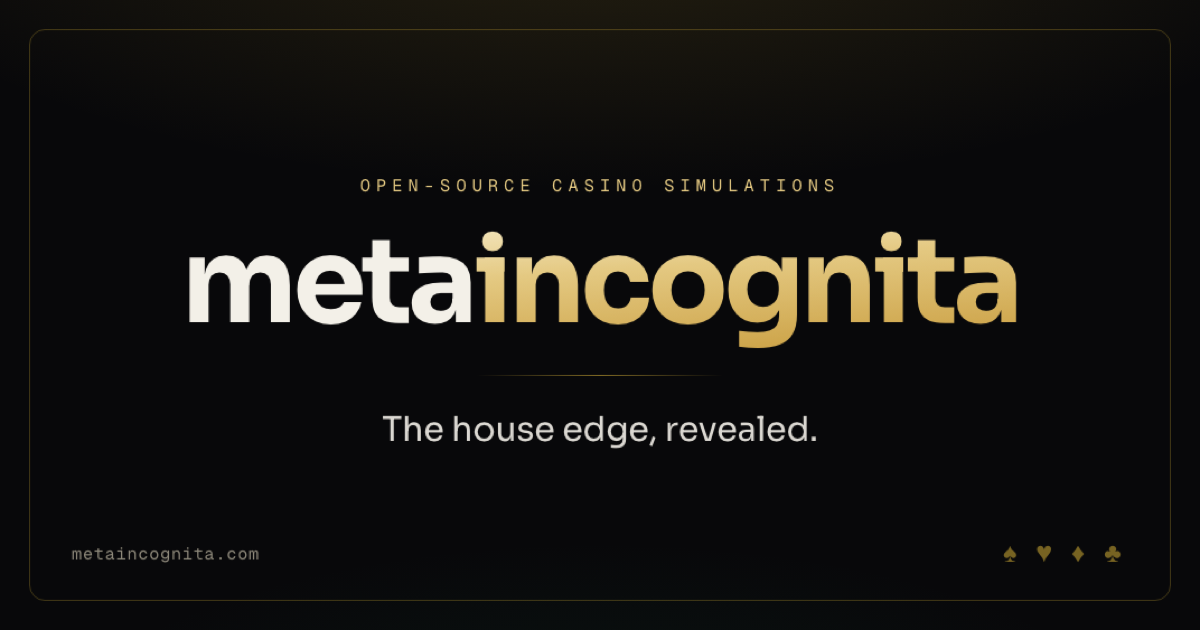
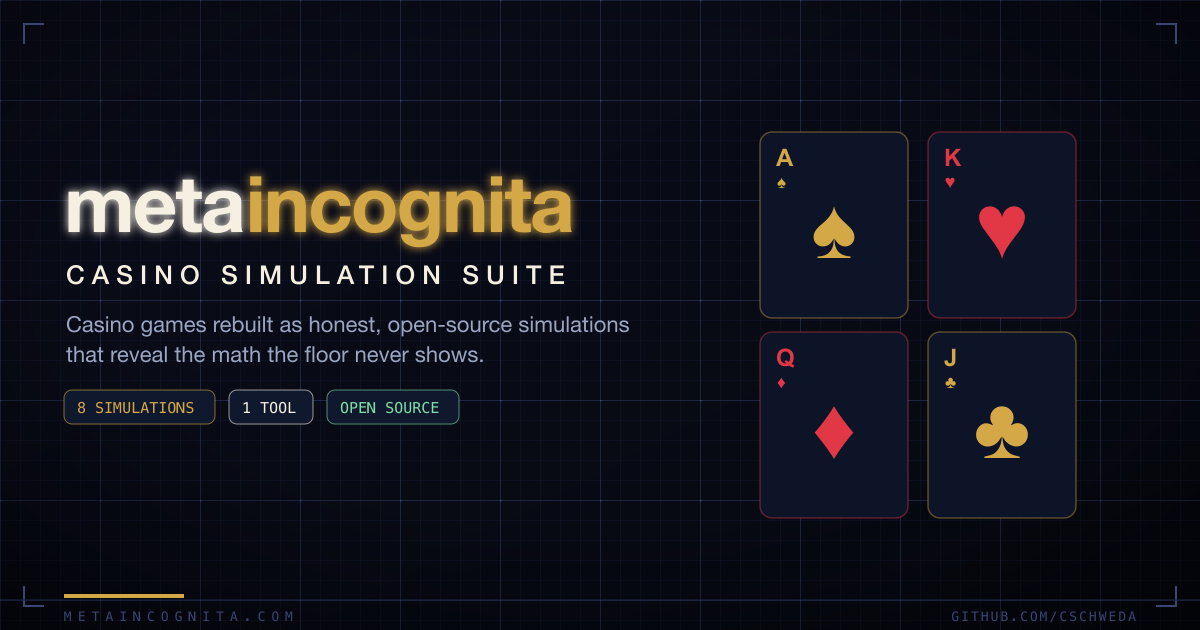
feat: branded og-image, SEO/JSON-LD, a11y fixes, GitHub label
- Status bar GitHub link now shows just 'GitHub' (icon); href points to the
  filtered metaincognita repos view.
- Add og-image.svg + og-image.png in the simulation-suite branded style
  (navy blueprint grid, gold accent, card-suits motif), rasterized with rsvg-convert.
- SEO: og:image alt/type, og:locale, twitter:image:alt, plus JSON-LD
  (WebSite + ItemList of every simulation/tool as a free WebApplication).
- README: add badges and embed the og-image.
- a11y: fix label-in-name on cards (drop aria-label override, add sr-only
  new-tab hint, aria-hidden decorative icons/index). axe AA: 0 violations,
  Lighthouse a11y/SEO/best-practices 100.
- perf: inline critical CSS to drop the render-blocking stylesheet.

diff --git a/app/pages/index.vue b/app/pages/index.vue
@@ -3,6 +3,45 @@ import { simulations, tools } from '~/data/catalog'
 
 // Stagger the card reveals a touch past the hero's entrance.
 const cardDelay = (i: number, base = 0) => `${(base + i * 0.06).toFixed(2)}s`
+
+// Structured data: the site plus every simulation/tool as a free web application.
+const SITE = 'https://metaincognita.com'
+const jsonLd = {
+  '@context': 'https://schema.org',
+  '@graph': [
+    {
+      '@type': 'WebSite',
+      '@id': `${SITE}/#website`,
+      name: 'metaincognita',
+      url: SITE,
+      description: 'Open-source casino simulations and trainers that reveal the math behind every game — no real money, no accounts, no AI.',
+      inLanguage: 'en'
+    },
+    {
+      '@type': 'ItemList',
+      name: 'metaincognita simulations & tools',
+      numberOfItems: simulations.length + tools.length,
+      itemListElement: [...simulations, ...tools].map((item, i) => ({
+        '@type': 'ListItem',
+        position: i + 1,
+        item: {
+          '@type': 'WebApplication',
+          name: item.title,
+          url: `https://${item.domain}`,
+          description: item.description,
+          applicationCategory: 'GameApplication',
+          operatingSystem: 'Web',
+          isAccessibleForFree: true,
+          offers: { '@type': 'Offer', price: '0', priceCurrency: 'USD' }
+        }
+      }))
+    }
+  ]
+}
+
+useHead({
+  script: [{ type: 'application/ld+json', innerHTML: JSON.stringify(jsonLd) }]
+})
 </script>
 
 <template>

diff --git a/nuxt.config.ts b/nuxt.config.ts
@@ -9,6 +9,9 @@ export default defineNuxtConfig({
 
   ssr: true,
 
+  // inline critical CSS into the prerendered HTML, dropping the render-blocking stylesheet
+  features: { inlineStyles: true },
+
   devtools: { enabled: true },
 
   css: ['~/assets/css/main.css'],
@@ -36,12 +39,16 @@ export default defineNuxtConfig({
         { property: 'og:description', content: DESCRIPTION },
         { property: 'og:url', content: SITE_URL },
         { property: 'og:image', content: `${SITE_URL}/og-image.png` },
+        { property: 'og:image:type', content: 'image/png' },
         { property: 'og:image:width', content: '1200' },
         { property: 'og:image:height', content: '630' },
+        { property: 'og:image:alt', content: 'metaincognita — open-source casino simulation suite' },
+        { property: 'og:locale', content: 'en_US' },
         { name: 'twitter:card', content: 'summary_large_image' },
         { name: 'twitter:title', content: TITLE },
         { name: 'twitter:description', content: DESCRIPTION },
-        { name: 'twitter:image', content: `${SITE_URL}/og-image.png` }
+        { name: 'twitter:image', content: `${SITE_URL}/og-image.png` },
+        { name: 'twitter:image:alt', content: 'metaincognita — open-source casino simulation suite' }
       ],
       // Fonts (Fraunces / Hanken Grotesk / Space Mono) are self-hosted at build
       // time by @nuxt/fonts — see app/assets/css/main.css @theme — so there is

diff --git a/app/components/AppCard.vue b/app/components/AppCard.vue
@@ -29,7 +29,6 @@ function onMove(e: MouseEvent) {
     target="_blank"
     rel="noopener noreferrer"
     :style="{ '--accent': item.accent }"
-    :aria-label="`${item.title} — opens ${item.domain} in a new tab`"
     class="card group"
     @mousemove="onMove"
   >
@@ -37,9 +36,9 @@ function onMove(e: MouseEvent) {
 
     <div class="flex items-start justify-between">
       <span class="icon-tile">
-        <UIcon :name="`i-lucide-${item.icon}`" />
+        <UIcon :name="`i-lucide-${item.icon}`" aria-hidden="true" />
       </span>
-      <span class="index">{{ num }}</span>
+      <span class="index" aria-hidden="true">{{ num }}</span>
     </div>
 
     <div class="mt-6 flex-1">
@@ -53,8 +52,9 @@ function onMove(e: MouseEvent) {
 
     <div class="domain">
       <span class="truncate">{{ item.domain }}</span>
-      <UIcon name="i-lucide-arrow-up-right" class="arrow shrink-0" />
+      <UIcon name="i-lucide-arrow-up-right" class="arrow shrink-0" aria-hidden="true" />
     </div>
+    <span class="sr-only"> — opens in a new tab</span>
   </a>
 </template>
 

diff --git a/app/components/TheStatusBar.vue b/app/components/TheStatusBar.vue
@@ -18,7 +18,7 @@
         rel="noopener noreferrer"
       >
         <UIcon name="i-lucide-github" class="text-[0.95em]" />
-        github.com/cschweda
+        GitHub
       </a>
 
       <span class="meta hidden sm:inline">MIT · free to use · fork · self-host</span>

diff --git a/README.md b/README.md
@@ -1,5 +1,14 @@
 # metaincognita
 
+[![License: MIT](https://img.shields.io/badge/License-MIT-d4af37.svg)](LICENSE)
+&nbsp;![Nuxt](https://img.shields.io/badge/Nuxt-4-00DC82?logo=nuxt&logoColor=white)
+&nbsp;![Nuxt UI](https://img.shields.io/badge/Nuxt%20UI-4-00DC82)
+&nbsp;![Tailwind CSS](https://img.shields.io/badge/Tailwind%20CSS-v4-38BDF8?logo=tailwindcss&logoColor=white)
+&nbsp;![pnpm](https://img.shields.io/badge/pnpm-10-F69220?logo=pnpm&logoColor=white)
+&nbsp;[![Deployed on Netlify](https://img.shields.io/badge/Netlify-deployed-00C7B7?logo=netlify&logoColor=white)](https://metaincognita.com)
+
+![metaincognita — open-source casino simulation suite](public/og-image.png)
+
 The landing page for **metaincognita** — a collection of casino games rebuilt as
 honest, open-source **simulations** that expose the math the floor never shows, plus a
 growing set of **tools** for a sharper mind.